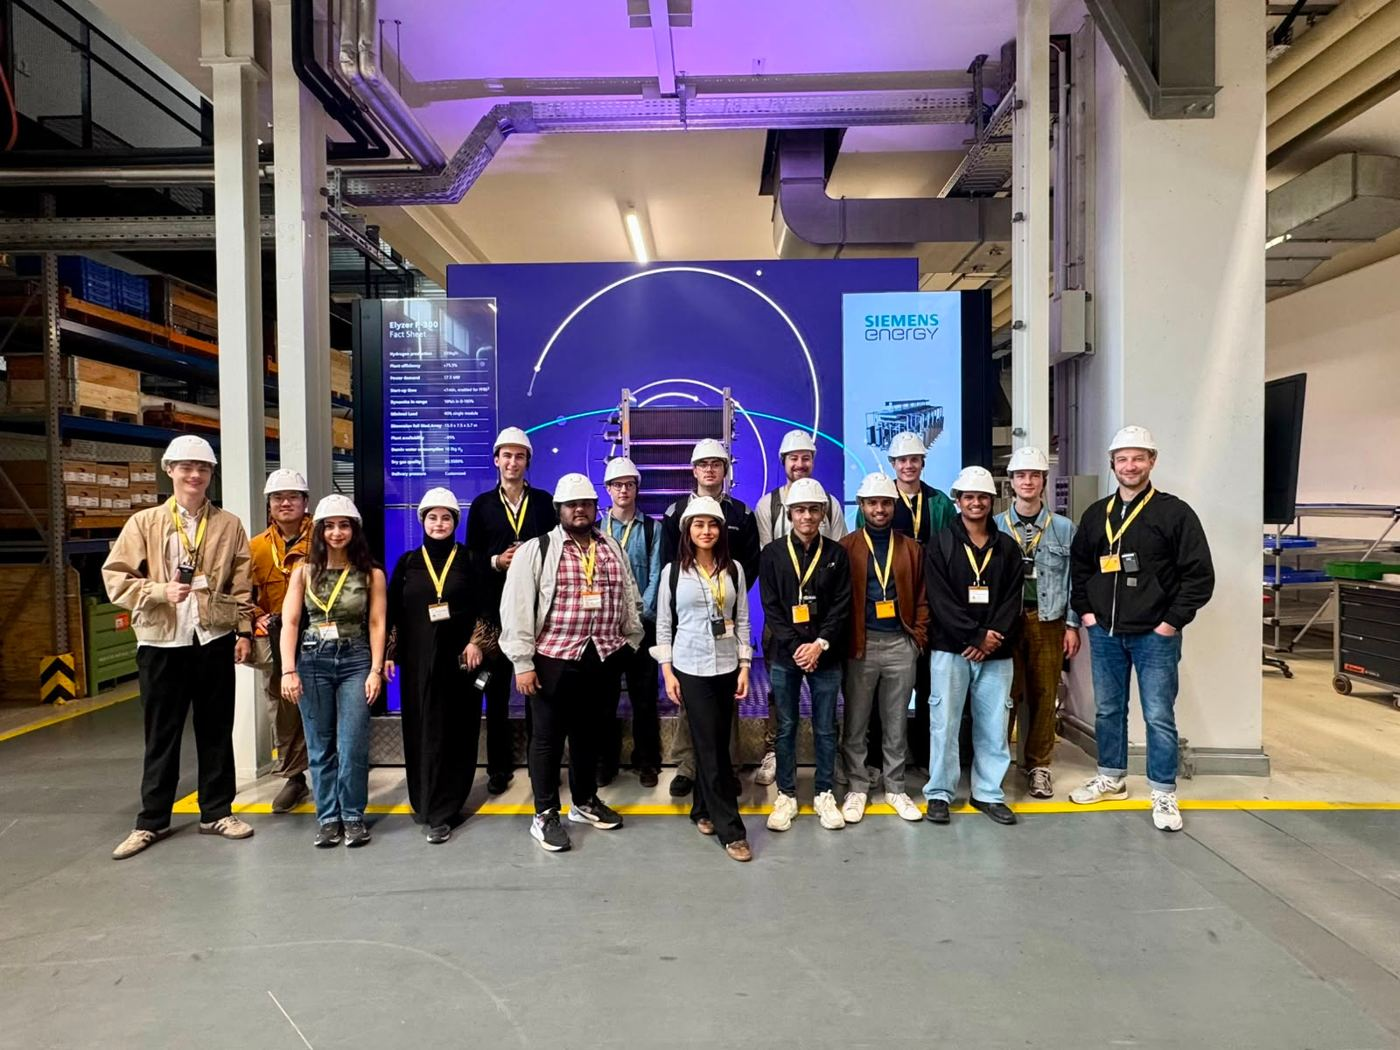
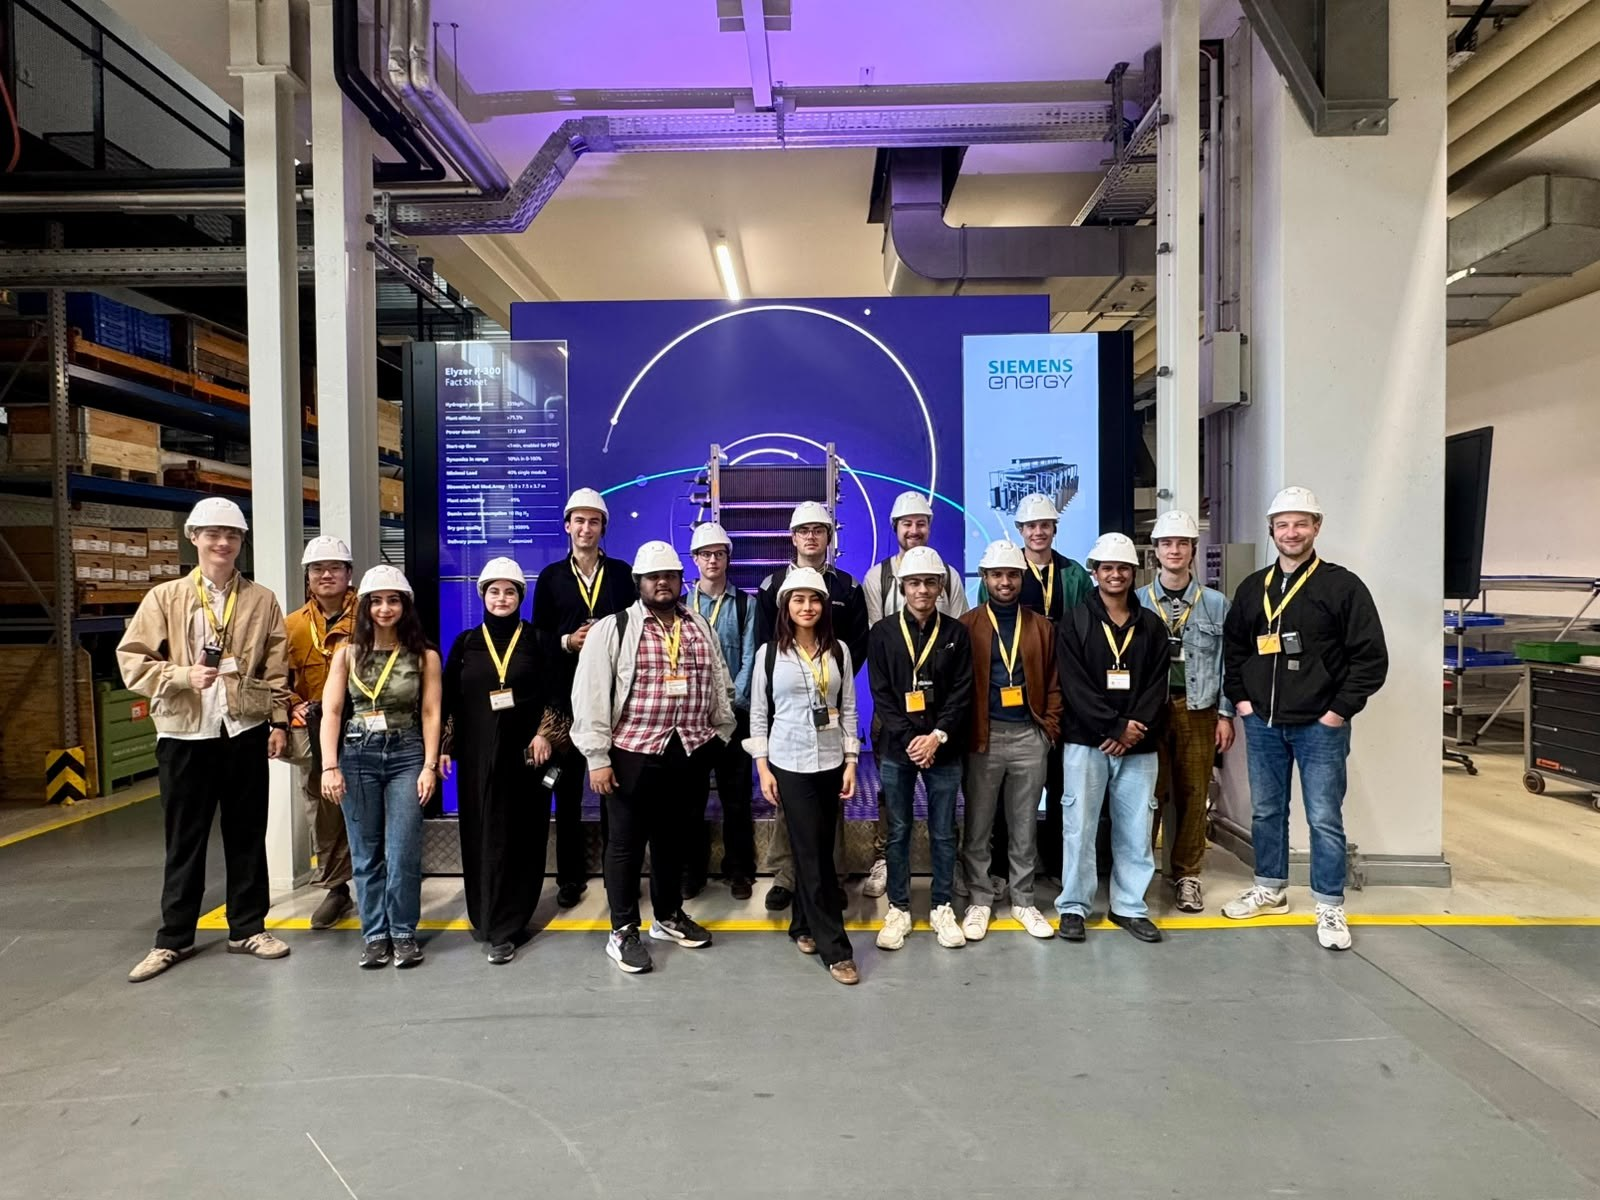
Fotos Siemens Energy und 1KOMMA5° in höherer Auflösung ersetzt
Claude-Session: https://claude.ai/code/session_012PbvWoKjMCmHohA1BxbNFw

diff --git a/CLAUDE.md b/CLAUDE.md
@@ -24,7 +24,7 @@ Reines HTML und CSS mit wenig JavaScript, kein Build-Schritt, kein Framework.
 | --- | --- |
 | `index.html` | Startseite, Aufbau nach dem Vorbild von brisa-robotics.de (Oktober 2026, Wunsch von Linus): Titel mit Leitsatz „Raus aus dem Hörsaal, rein ins Werk.“ und den Buttons „Wer wir sind“ / „Mitmachen“; 01 Mission (`#mission`, drei Säulen Sehen, Fragen, Vernetzen); 02 Team (`#team`, nummerierte Karten); 03 Touren (`#touren`, Kasten „Nächste Tour“ mit Luma = `#signup`, darunter „Bisherige Besuche“ als Slider = `#visits`); 04 Partner (`#partner`, nur der dunkle Kasten = `#host` mit „Tour anfragen“ und Link „Mehr zum Ablauf einer Tour“ auf `unternehmen.html`); Fußzeile mit Schlusssatz, Kontakt, LinkedIn, Luma (`#contact`). Nur Struktur übernommen, Gestaltung bleibt HTWerk |
 | `unternehmen.html` | Seite für Unternehmen, durchgehend gesiezt: Titel mit „Tour anfragen“, Hosting (`#host`), Ablauf, Kontakt (Abschnitt „Bisherige Touren“ im Oktober 2026 auf Wunsch von Linus entfernt). Link für Anfragen an Firmen. Kopfzeile mit Wortmarke |
-| `images/` | 12 Fotos aus der Partner-Präsentation (JPG, max. 1400 px), die Ordner `bmw-motorrad/`, `formlabs/` und `1komma5/` mit den Galerie-Fotos der Touren, `HTWerk/` mit den hochgeladenen Originalen, `og-image.jpg` (Vorschaubild 1200 x 630 für geteilte Links, mit Logo) und das Logo als Datei: `logo-htwerk.svg` (Wortmarke) und `logo-htwerk-monogramm.svg` (H mit Helm), beide schwarz |
+| `images/` | 12 Fotos aus der Partner-Präsentation (JPG, max. 1400 px; `siemens-energy.jpg` 1600 × 1200 und `1komma5.jpg` 1536 × 2048 im Oktober 2026 von Linus in höherer Auflösung ersetzt), die Ordner `bmw-motorrad/`, `formlabs/` und `1komma5/` mit den Galerie-Fotos der Touren, `HTWerk/` mit den hochgeladenen Originalen, `og-image.jpg` (Vorschaubild 1200 x 630 für geteilte Links, mit Logo) und das Logo als Datei: `logo-htwerk.svg` (Wortmarke) und `logo-htwerk-monogramm.svg` (H mit Helm), beide schwarz |
 | `fonts/` | Schriftdateien (woff2), `fonts.css` mit den `@font-face`-Regeln, Lizenztexte (SIL OFL) |
 | `favicon.svg`, `favicon.png`, `apple-touch-icon.png` | Icon: weißes Monogramm (H mit Helm) auf Schwarz |
 | `CNAME` | Domain für GitHub Pages |
